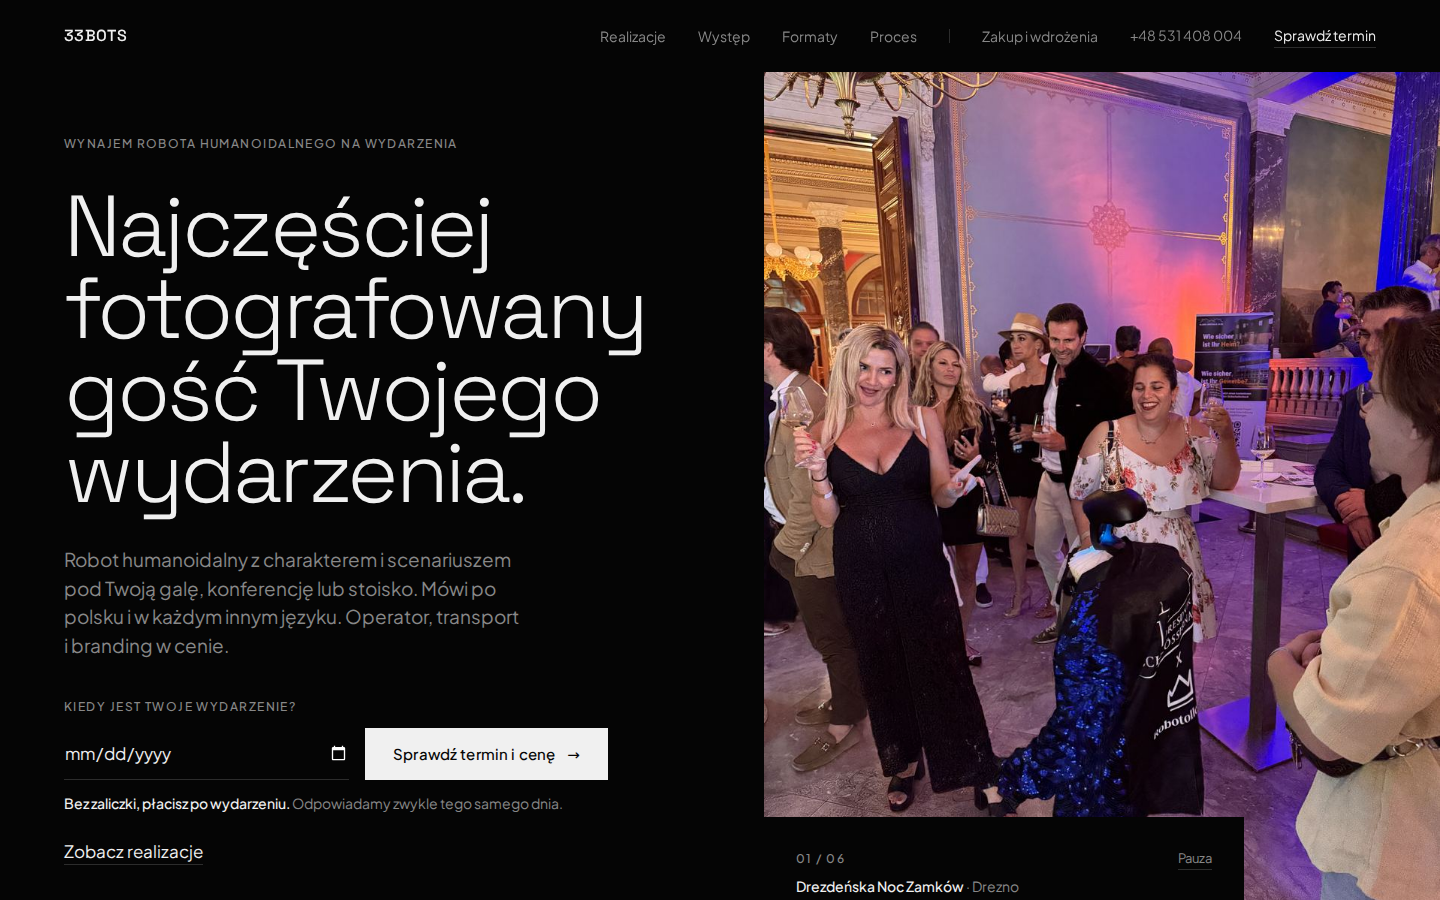
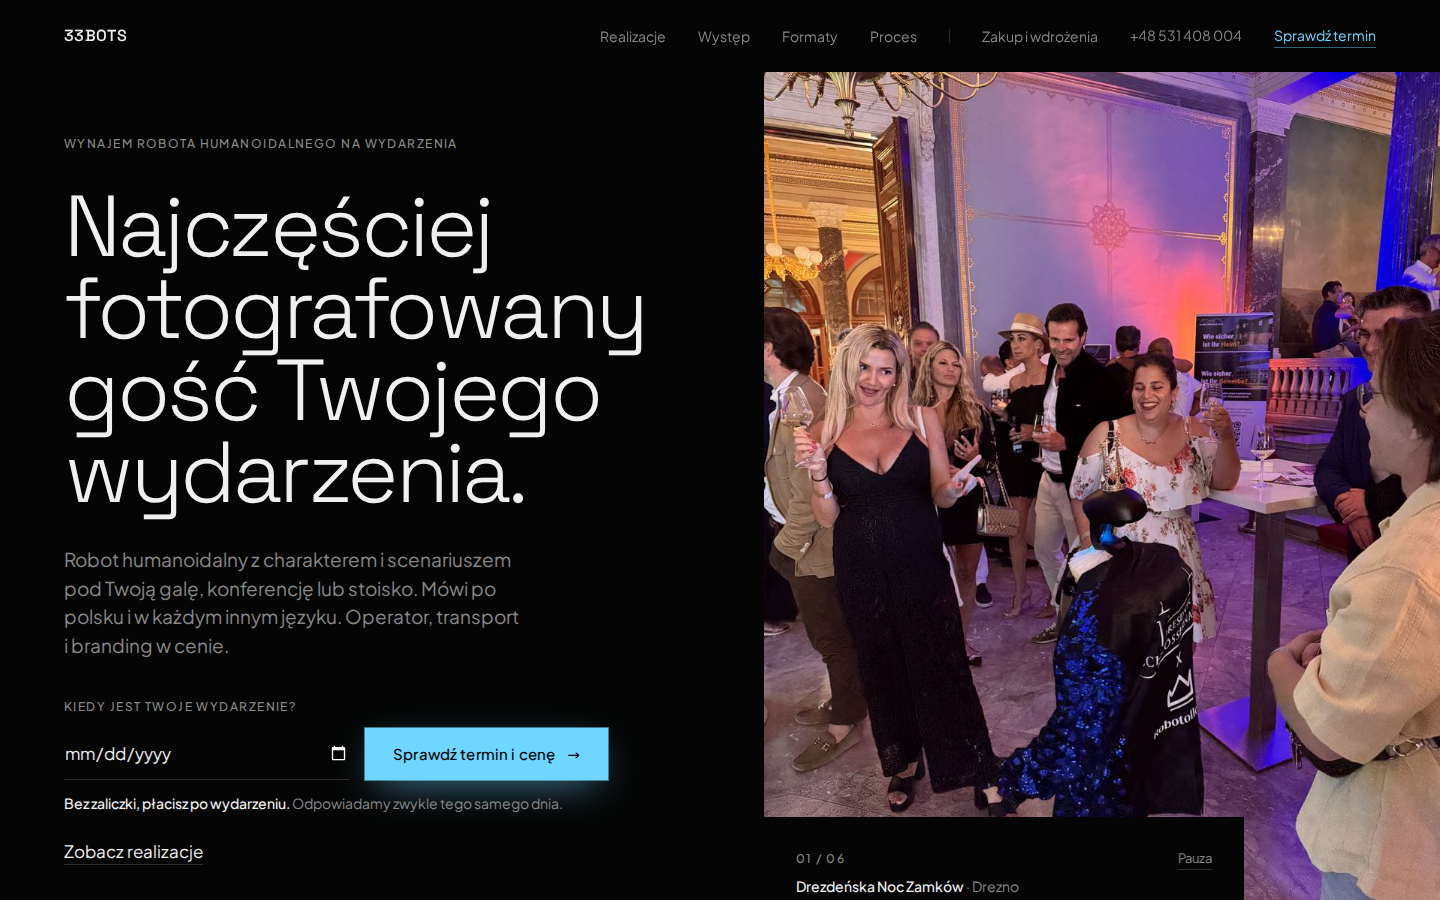
Droga do rezerwacji w kolorze sygnału: cyjanowe CTA z poświatą, karta formularza
Cała strona zostaje czarno-biała i płaska; kolor i światło dostaje wyłącznie
droga do rezerwacji, więc oko trafia tam od razu.
- .btn--akcja (hero, menu, po cenach, „Dalej”, wysyłka, pasek mobilny): tło
  cyjan, ciemny tekst, poświata; po najechaniu jaśniej i mocniej, fokus biały
- hero: po wyborze daty przycisk świeci mocniej (.termin--gotowe)
- „Sprawdź termin” w nawigacji w kolorze sygnału (.link--akcja, tylko .pl)
- formularz rezerwacji jako karta: ramka i górna linia w cyjanie, niebieska
  poświata w rogu, która myszką idzie za kursorem; bieżący krok i wybrane
  opcje w cyjanie
- testy: zasada „zero efektów” i „cyjan tylko jako sygnał” z jednym
  wyjątkiem — drogą do rezerwacji; nowy test reakcji (data, kursor)

Claude-Session: https://claude.ai/code/session_01CABXHV9S3CJaXRngGHWVV2

Changed region(s): [[0.25, 0.8089, 0.4375, 0.9022], [0.875, 0.0311, 0.9688, 0.0622]]

diff --git a/index.html b/index.html
@@ -47,7 +47,7 @@ j=d.createElement(s),dl=l!='dataLayer'?'&l='+l:'';j.async=true;j.src=
 <link rel="stylesheet" href="assets-redesign.css?v=ecec55be" />
 
 <script>document.documentElement.classList.add('js');</script>
-<link rel="stylesheet" href="css/site.css?v=d7bf1447" />
+<link rel="stylesheet" href="css/site.css?v=317afc0d" />
 
 <script type="application/ld+json">
 {"@context":"https://schema.org","@type":"Product","name":"Wynajem robota humanoidalnego Unitree G1","description":"Wynajem robota humanoidalnego Unitree G1 na eventy, targi i konferencje w całej Polsce.","url":"https://33bots.pl","image":"https://33bots.pl/robot-g1.jpg","brand":{"@type":"Brand","name":"Unitree"},"offers":{"@type":"AggregateOffer","priceCurrency":"PLN","lowPrice":"5500","highPrice":"6500","availability":"https://schema.org/InStock","url":"https://33bots.pl/#cennik","description":"Cały dzień realizacji z transportem, operatorem i brandingiem w cenie. Możliwy krótszy pokaz (wycena indywidualna) oraz realizacje wielodniowe z rabatem 15% na każdy dzień. Zero zaliczki, faktura po wydarzeniu."},"aggregateRating":{"@type":"AggregateRating","ratingValue":"5.0","reviewCount":"3","bestRating":"5","worstRating":"1"}}
@@ -212,7 +212,7 @@ height="0" width="0" style="display:none;visibility:hidden"></iframe></noscript>
     </nav>
     <div class="nav__akcje">
       <a class="nav__tel" href="tel:+48531408004" data-tel="nav">+48 531 408 004</a>
-      <a class="link nav__cta" href="#kontakt" data-cta="nav">Sprawdź termin</a>
+      <a class="link nav__cta link--akcja" href="#kontakt" data-cta="nav">Sprawdź termin</a>
       <button class="nav__przycisk" id="navPrzycisk" type="button" aria-expanded="false" aria-controls="navPanel">Menu</button>
     </div>
   </div>
@@ -225,7 +225,7 @@ height="0" width="0" style="display:none;visibility:hidden"></iframe></noscript>
       <li><a href="wdrozenia.html">Zakup i wdrożenia</a></li>
     </ul>
     <a class="nav__tel" href="tel:+48531408004" data-tel="menu">+48 531 408 004</a>
-    <a class="btn" href="#kontakt" data-cta="nav">Sprawdź termin i cenę <span aria-hidden="true">→</span></a>
+    <a class="btn btn--akcja" href="#kontakt" data-cta="nav">Sprawdź termin i cenę <span aria-hidden="true">→</span></a>
   </div>
 </header>
 
@@ -244,7 +244,7 @@ height="0" width="0" style="display:none;visibility:hidden"></iframe></noscript>
         <label class="label" for="heroData">Kiedy jest Twoje wydarzenie?</label>
         <div class="termin__rzad">
           <input class="termin__data" type="date" id="heroData" />
-          <a class="btn" href="#kontakt" data-cta="hero">Sprawdź&nbsp;termin i&nbsp;cenę <span aria-hidden="true">→</span></a>
+          <a class="btn btn--akcja" href="#kontakt" data-cta="hero">Sprawdź&nbsp;termin i&nbsp;cenę <span aria-hidden="true">→</span></a>
         </div>
         <p class="termin__obietnica"><strong>Bez zaliczki, płacisz po wydarzeniu.</strong> Odpowiadamy zwykle tego samego dnia.</p>
       </div>
@@ -512,7 +512,7 @@ height="0" width="0" style="display:none;visibility:hidden"></iframe></noscript>
       </li>
     </ul>
     <p class="body formaty__wcenie">W&nbsp;cenie: operator, transport, branding (logo, kod QR), ubezpieczenie OC. <strong>Płacisz po wydarzeniu.</strong> Ostateczna kwota zależy od lokalizacji i&nbsp;długości trwania.</p>
-    <p class="formaty__cta"><a class="btn" href="#kontakt" data-cta="formaty">Sprawdź termin i dokładną cenę <span aria-hidden="true">→</span></a></p>
+    <p class="formaty__cta"><a class="btn btn--akcja" href="#kontakt" data-cta="formaty">Sprawdź termin i dokładną cenę <span aria-hidden="true">→</span></a></p>
   </div>
 </section>
 
@@ -658,7 +658,7 @@ height="0" width="0" style="display:none;visibility:hidden"></iframe></noscript>
           </div>
         </fieldset>
         <div class="form-akcje">
-          <button class="btn" type="button" id="dalej">Dalej <span aria-hidden="true">→</span></button>
+          <button class="btn btn--akcja" type="button" id="dalej">Dalej <span aria-hidden="true">→</span></button>
         </div>
       </div>
 
@@ -690,7 +690,7 @@ height="0" width="0" style="display:none;visibility:hidden"></iframe></noscript>
         </div>
         <div class="form-akcje">
           <button class="wstecz" type="button" id="wstecz">Wstecz</button>
-          <button class="btn" type="submit" id="wyslij">Sprawdź termin i cenę <span aria-hidden="true">→</span></button>
+          <button class="btn btn--akcja" type="submit" id="wyslij">Sprawdź termin i cenę <span aria-hidden="true">→</span></button>
         </div>
         <p class="pole__blad" id="blad-wysylki" role="alert" hidden></p>
       </div>
@@ -803,7 +803,7 @@ height="0" width="0" style="display:none;visibility:hidden"></iframe></noscript>
 
 <!-- ══════════ Pasek mobilny: pojawia się po minięciu hero, znika przy rezerwacji ══════════ -->
 <div class="pasek" id="pasekMobilny">
-  <a class="btn" href="#kontakt" data-cta="sticky">Sprawdź termin <span aria-hidden="true">→</span></a>
+  <a class="btn btn--akcja" href="#kontakt" data-cta="sticky">Sprawdź termin <span aria-hidden="true">→</span></a>
   <a class="pasek__tel" href="tel:+48531408004" data-tel="pasek">Zadzwoń</a>
 </div>
 <div class="pasek-odstep"></div>
@@ -914,6 +914,10 @@ height="0" width="0" style="display:none;visibility:hidden"></iframe></noscript>
       heroData.addEventListener('click', () => { try { heroData.showPicker(); } catch (e) { /* zwykłe pole */ } });
     }
     heroData.addEventListener('keydown', (e) => { if (e.key === 'Enter') { e.preventDefault(); heroCta.click(); } });
+    // Po wyborze daty przycisk świeci mocniej (.termin--gotowe) — następny krok jest oczywisty.
+    const gotowe = () => heroData.closest('.termin').classList.toggle('termin--gotowe', !!heroData.value);
+    heroData.addEventListener('input', gotowe);
+    heroData.addEventListener('change', gotowe);
     heroCta.addEventListener('click', () => {
       const pole = document.getElementById('pole-data');
       const nieustalona = document.getElementById('data-nieustalona');
@@ -971,6 +975,18 @@ height="0" width="0" style="display:none;visibility:hidden"></iframe></noscript>
     }, { rootMargin: '-80px 0px 0px 0px' });
     obserwator.observe(hero);
     if (rezerwacja) obserwator.observe(rezerwacja);
+  }
+
+  /* ——— Formularz rezerwacji: niebieska poświata idzie za kursorem ———
+     Tylko myszką i bez ograniczenia ruchu; poza tym poświata stoi w prawym górnym rogu karty. */
+  const karta = document.querySelector('.rez .rez__form');
+  if (karta && !reduce && matchMedia('(pointer: fine)').matches) {
+    karta.addEventListener('pointermove', (e) => {
+      const r = karta.getBoundingClientRect();
+      karta.style.setProperty('--sx', `${Math.round(e.clientX - r.left)}px`);
+      karta.style.setProperty('--sy', `${Math.round(e.clientY - r.top)}px`);
+    });
+    karta.addEventListener('pointerleave', () => { karta.style.removeProperty('--sx'); karta.style.removeProperty('--sy'); });
   }
 
   /* ——— Pomiar: kliknięcia w „Sprawdź termin” jako zdarzenie cta_click w GTM ——— */

diff --git a/css/site.css b/css/site.css
@@ -86,6 +86,24 @@ body { color: var(--text); font: 400 1.0625rem/1.6 var(--font-body); -webkit-fon
   text-underline-offset: 6px; text-decoration-color: var(--line-strong); transition: text-decoration-color .2s; }
 .link:hover { text-decoration-color: var(--text); }
 
+/* ══════════ Droga do rezerwacji: jedyne miejsce z kolorem i światłem ══════════
+   Cała strona zostaje czarno-biała i płaska. Cyjan — kolor sygnału — i poświata należą
+   wyłącznie do akcji „Sprawdź termin i cenę” i do formularza rezerwacji, więc oko trafia
+   tam od razu. Kształt bez zmian: prostokąt bez zaokrągleń. */
+.btn--akcja { background: var(--accent); color: var(--ink);
+  box-shadow: 0 0 0 1px rgba(111, 214, 255, .55), 0 12px 40px -12px rgba(111, 214, 255, .7);
+  transition: background-color .2s, box-shadow .3s, transform .2s; }
+.btn--akcja:hover { background: #a6e7ff;
+  box-shadow: 0 0 0 1px rgba(111, 214, 255, .85), 0 18px 56px -12px rgba(111, 214, 255, .95); transform: translateY(-1px); }
+.btn--akcja:active { transform: none; }
+.btn--akcja:focus-visible { outline: 2px solid var(--text); outline-offset: 4px; }
+/* Data wybrana w hero: przycisk świeci mocniej — następny krok jest oczywisty. */
+.termin--gotowe .btn--akcja { box-shadow: 0 0 0 1px rgba(111, 214, 255, .95), 0 0 0 6px rgba(111, 214, 255, .16),
+  0 18px 60px -10px rgba(111, 214, 255, 1); }
+.nav .link--akcja { color: var(--accent); text-decoration-color: rgba(111, 214, 255, .45); }
+.nav .link--akcja:hover { text-decoration-color: var(--accent); }
+.nav .link--akcja:focus-visible { outline-color: var(--text); }
+
 /* ——— Hero: tekst w siatce, zdjęcie do prawej krawędzi ekranu ———
    margin-top: nawigacja jest przyklejona (position: fixed), więc bez tego
    hero zaczynałby się pod nią. */
@@ -415,6 +433,14 @@ fieldset.pole > legend { margin-bottom: 8px; }
 .rez__glowa { grid-column: 1 / span 5; grid-row: 1; display: grid; gap: 32px; align-content: start; }
 .rez__kontakty { grid-column: 1 / span 5; grid-row: 2; display: grid; gap: 32px; align-content: start; margin-top: 32px; }
 .rez .rez__form { grid-column: 7 / -1; grid-row: 1 / span 2; }
+/* Karta formularza: jedyny blok strony z ramką w kolorze sygnału i niebieską poświatą.
+   Poświata stoi w prawym górnym rogu, a myszką idzie za kursorem (--sx, --sy z JS). */
+.rez .rez__form { align-self: start; padding: 48px; background-color: #090c0f;
+  background-image: radial-gradient(560px circle at var(--sx, 100%) var(--sy, 0%), rgba(111, 214, 255, .14), transparent 62%);
+  border: 1px solid rgba(111, 214, 255, .3); border-top: 2px solid var(--accent); transition: border-color .3s; }
+.rez .rez__form:hover, .rez .rez__form:focus-within { border-color: rgba(111, 214, 255, .55); border-top-color: var(--accent); }
+.rez .kroki-form .label[aria-current="step"] { color: var(--accent); }
+.rez .chip input:checked + span { border-color: var(--accent); color: var(--text); }
 @media (max-width: 1023px) {
   .rez__lewa, .rez__form { grid-column: 1 / -1; }
   .rez__form { margin-top: 64px; }
@@ -424,6 +450,7 @@ fieldset.pole > legend { margin-bottom: 8px; }
   .rez .rez__form { margin-top: 48px; }
   .rez__kontakty { margin-top: 64px; }
 }
+@media (max-width: 767px) { .rez .rez__form { padding: 24px; } }
 
 /* ——— 11 Stopka ——— */
 .stopka { padding-block: 64px 96px; border-top: 1px solid var(--line); font: 400 0.8125rem/1.7 var(--font-body); color: var(--text-2); }

diff --git a/blog-atrakcje-eventowe.html b/blog-atrakcje-eventowe.html
@@ -29,7 +29,7 @@ j=d.createElement(s),dl=l!='dataLayer'?'&l='+l:'';j.async=true;j.src=
 <link rel="icon" type="image/svg+xml" href="favicon.svg" />
 <link rel="preload" as="font" type="font/woff2" crossorigin href="fonts/space-grotesk-latin-wght-normal.woff2" />
 <script>document.documentElement.classList.add('js');</script>
-<link rel="stylesheet" href="css/site.css?v=d7bf1447" />
+<link rel="stylesheet" href="css/site.css?v=317afc0d" />
 <script type="application/ld+json">
 {
   "@context": "https://schema.org",

diff --git a/blog-ile-kosztuje-wynajem-robota.html b/blog-ile-kosztuje-wynajem-robota.html
@@ -29,7 +29,7 @@ j=d.createElement(s),dl=l!='dataLayer'?'&l='+l:'';j.async=true;j.src=
 <link rel="icon" type="image/svg+xml" href="favicon.svg" />
 <link rel="preload" as="font" type="font/woff2" crossorigin href="fonts/space-grotesk-latin-wght-normal.woff2" />
 <script>document.documentElement.classList.add('js');</script>
-<link rel="stylesheet" href="css/site.css?v=d7bf1447" />
+<link rel="stylesheet" href="css/site.css?v=317afc0d" />
 <script type="application/ld+json">
 {
   "@context": "https://schema.org",

diff --git a/blog-lekcje-z-eventow-z-robotem.html b/blog-lekcje-z-eventow-z-robotem.html
@@ -29,7 +29,7 @@ j=d.createElement(s),dl=l!='dataLayer'?'&l='+l:'';j.async=true;j.src=
 <link rel="icon" type="image/svg+xml" href="favicon.svg" />
 <link rel="preload" as="font" type="font/woff2" crossorigin href="fonts/space-grotesk-latin-wght-normal.woff2" />
 <script>document.documentElement.classList.add('js');</script>
-<link rel="stylesheet" href="css/site.css?v=d7bf1447" />
+<link rel="stylesheet" href="css/site.css?v=317afc0d" />
 <script type="application/ld+json">
 {
   "@context": "https://schema.org",

diff --git a/blog-robot-na-event-korporacyjny-przewodnik.html b/blog-robot-na-event-korporacyjny-przewodnik.html
@@ -29,7 +29,7 @@ j=d.createElement(s),dl=l!='dataLayer'?'&l='+l:'';j.async=true;j.src=
 <link rel="icon" type="image/svg+xml" href="favicon.svg" />
 <link rel="preload" as="font" type="font/woff2" crossorigin href="fonts/space-grotesk-latin-wght-normal.woff2" />
 <script>document.documentElement.classList.add('js');</script>
-<link rel="stylesheet" href="css/site.css?v=d7bf1447" />
+<link rel="stylesheet" href="css/site.css?v=317afc0d" />
 <script type="application/ld+json">
 {
   "@context": "https://schema.org",

diff --git a/blog-robot-na-event-miedzynarodowy.html b/blog-robot-na-event-miedzynarodowy.html
@@ -29,7 +29,7 @@ j=d.createElement(s),dl=l!='dataLayer'?'&l='+l:'';j.async=true;j.src=
 <link rel="icon" type="image/svg+xml" href="favicon.svg" />
 <link rel="preload" as="font" type="font/woff2" crossorigin href="fonts/space-grotesk-latin-wght-normal.woff2" />
 <script>document.documentElement.classList.add('js');</script>
-<link rel="stylesheet" href="css/site.css?v=d7bf1447" />
+<link rel="stylesheet" href="css/site.css?v=317afc0d" />
 <script type="application/ld+json">
 {
   "@context": "https://schema.org",

diff --git a/blog-robot-na-festyn-i-dni-gminy.html b/blog-robot-na-festyn-i-dni-gminy.html
@@ -29,7 +29,7 @@ j=d.createElement(s),dl=l!='dataLayer'?'&l='+l:'';j.async=true;j.src=
 <link rel="icon" type="image/svg+xml" href="favicon.svg" />
 <link rel="preload" as="font" type="font/woff2" crossorigin href="fonts/space-grotesk-latin-wght-normal.woff2" />
 <script>document.documentElement.classList.add('js');</script>
-<link rel="stylesheet" href="css/site.css?v=d7bf1447" />
+<link rel="stylesheet" href="css/site.css?v=317afc0d" />
 <script type="application/ld+json">
 {
   "@context": "https://schema.org",

diff --git a/blog-wdrozenie-robota-humanoidalnego-w-firmie.html b/blog-wdrozenie-robota-humanoidalnego-w-firmie.html
@@ -29,7 +29,7 @@ j=d.createElement(s),dl=l!='dataLayer'?'&l='+l:'';j.async=true;j.src=
 <link rel="icon" type="image/svg+xml" href="favicon.svg" />
 <link rel="preload" as="font" type="font/woff2" crossorigin href="fonts/space-grotesk-latin-wght-normal.woff2" />
 <script>document.documentElement.classList.add('js');</script>
-<link rel="stylesheet" href="css/site.css?v=d7bf1447" />
+<link rel="stylesheet" href="css/site.css?v=317afc0d" />
 <script type="application/ld+json">
 {
   "@context": "https://schema.org",
